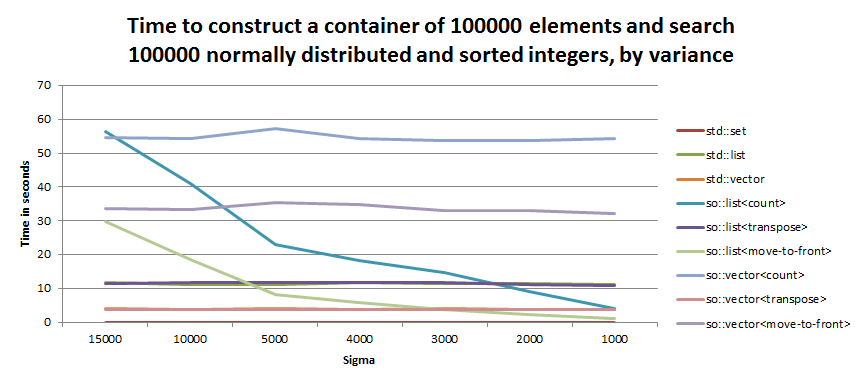
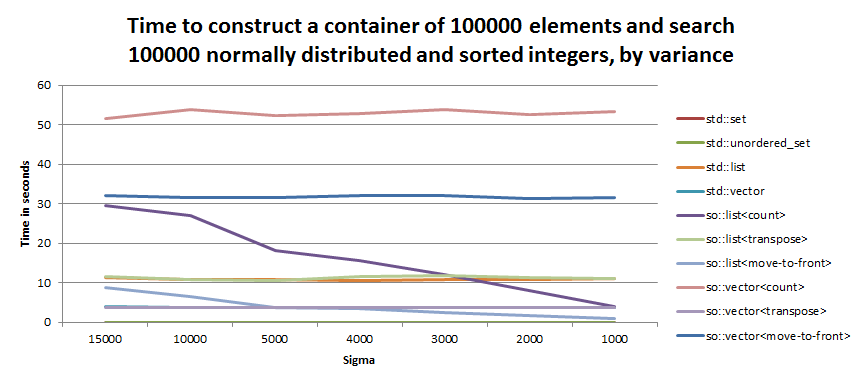
More better documentation in the performance section. Also added std::unordered_set to the arena.

diff --git a/documentation/mainpage.h b/documentation/mainpage.h
@@ -77,40 +77,48 @@ We already know that when searching for elements in a container in a purely rand
 There would indeed be no useful information from past searches to use and optimize future searches.
 Self-organizing lists must only be used when searches are not uniformly random.
 
+I'll state upfront that if one considers only the time taken to search, \c std::unordered_set and \c std::set are virtually unbeatable under the conditions I've set for these tests.
+The only way I could get \c self_organizing::lists to come ahead of was when I included the time taken to construct the container in the overall performance evaluation.
+So that's something important to consider.
+
+Performance tests were run with two random distributions, normal and geometric.
+After the numbers were generated, an extra step was performed to substitute the generated numbers with values from a randomly generated substitution dictionary.
+This avoided having the numbers generated being too predictable or concentrated.
+For instance, for a geometric distribution, even though the distribution is random, the most common number generated will \em always be 0, the second will \em always be 1, etc.
+Thus, this extra step added randomness to the numbers themselves, rather than just their distribution.
+
 \subsection normal Search of normally distributed elements
 
-For this performance test, I used the following nine containers:
- - One \c std::list, one \c std::vector and one \c std::set.
+For this performance test, I used the following containers:
+ - One \c std::set, one \c std::unordered_set, one \c std::list and one \c std::vector.
  - Three self_organizing::list, each with a different \ref self_organizing::find_policy "find_policy".
  - Three self_organizing::vector, each with a different \ref self_organizing::find_policy "find_policy".
 
-I randomly shuffled integers from 0 to 999999 and copied them to the containers.
-I then generated 100000 random integers multiple times from the same range using a <A href=http://en.wikipedia.org/wiki/Normal_distribution>normal distribution</A>.
+Each container was constructed with value from the range [0, 999999[.
+I then generate 100000 random integers from the same range using a <A href=http://en.wikipedia.org/wiki/Normal_distribution>normal distribution</A>.
 Each time, the mean was kept at 50000 and the variance was changed.
-I measure both the time taken to contruct the container and the time taken to perform the searches.
-This avoids giving an unfair advantage to \c std::set which sorts data at construction time, a costly operation, in order to afford fast searches.
-Here are the results.
+Then, the extra susbstitution step described above was applied.
 
 \image html performance-normal.png
 
-First obvious conclusion: \c std::set crushes the competition.
-It barely registers.
-\c std::set's \a log(N) search performance shines.
-Sorting the data even appears to have been done for free when compared to the other containers' performance.
+First obvious conclusion: \c std::set and \c std::unordered_set crush the competition.
+They barely register on the graph.
+\c std::set's <em>O(log(N))</em> search performance shines.
+\c std::unordered_set's amortized constant performance fares even better, though it doesn't show on the graph.
+Sorting or hashing the data even appears to have been done for free when compared to the other containers' performance.
 
 On the other side of the spectrum, \c self_organizing::vector<find_policy::count> and \c self_organizing::vector<find_policy::move_to_front> can't keep up at all.
-The maintenance required is utterly misadapted to a \c vector since both policies constanly rearrange elements using insertion, an operation that \c vector is not made for.
+The maintenance required is utterly misadapted to a \c vector since both policies constanly rearrange elements using insertion, an operation that \c std::vector is not made for.
 
 What's left in between?
-In third place we have \c std::vector.
+In fourth place we have \c std::vector.
 The nature of this test favors packed and static data, so that's no surprise.
 But ahead of it by a nose is \c self_organizing::vector<find_policy::transpose>.
-The transposition strategy of swapping element incurs little overhead to a \c vector and afforded it the second place.
+The transposition strategy of swapping element incurs little overhead to \c std::vector and afforded it the second place.
 
 Where are our lists?
 \c std::list and \c self_organizing::list<find_policy::transpose> performed in lock-step, mimicking their \c vector cousins.
 Only, three times slower.
-I'm surprised the transposition strategy didn't help that much.
 Remains, \c self_organizing::list<find_policy::count> and \c self_organizing::list<find_policy::move_to_front>.
 Now those are interesting because they show a pattern of improving performance as the search variance is reduced.
 \c self_organizing::list<find_policy::move_to_front> even managed to come ahead of the \c vectors in the last test!
@@ -127,34 +135,52 @@ But let's try to give our self-organizing containers a fighting chance...
 
 This next test is a carbon copy of the previous test except that the elements to search are sorted after they are generated.
 The purpose is to imitate a system where it is expected that not only a small subset of elements will be searched for, but also that when an element is searched for it is highly likely to be immediately searched for again.
-This situation will not help the transposition strategy but will help the move-to-front strategy.
+This situation will not help the transposition strategy but should help the move-to-front strategy.
 Let's see.
 
 \image html performance-normal-sorted.png
 
 The picture is the same as before except for the performance of \c self_organizing::list<find_policy::move_to_front>.
 It has benefited tremendeously from the search pattern, equating or besting the performance of \c std::vector for the smaller variance values.
-It still doesn't hold a candle to \c std::set.
+But, it still doesn't hold a candle to either of \c std::set and \c std::unordered_set.
 Let's up the ante.
 
 \subsection geometric Search of geometrically distributed elements
 
-Using knowledge from the previous tests, I narrowed the contenders to the following three:
+Using knowledge from the previous tests, I narrowed the contenders to the following four:
  - One \c std::set
+ - One \c std::unordered_set
  - One \c self_organizing::list<find_policy::count>
  - One \c self_organizing::list<find_policy::move_to_front>
 
-I randomly shuffled integers from 0 to 999999 and copied them to the containers.
-I then generated 100000 random integers multiple times from the same range using a <A href=http://en.wikipedia.org/wiki/Geometric_distribution>geometric distribution</A> and varying \em p.
-I measure both the time taken to contruct the container and the time taken to perform the searches.
+Each container was constructed with value from the range [0, 999999[.
+I then generated 100000 random integers multiple times from the same range using a < href=http://en.wikipedia.org/wiki/Geometric_distribution>geometric distribution</a> and varying \em p.
+I measure both the time taken to contruct the container and the time taken to perform the searches twenty-five times to average out any outlying result.
 
 \image html performance-geometric-100000.png
 
 Self-organizing lists beat \c std::set! Victory!
 
-Alas, this victory tastes sour.
+Alas, it is a short-lived victory.
 These values of \em p are ridiculously small.
-At <EM>p = 0.04</EM> &mdash;the largest for which lists beat <TT>std::set</TT>&mdash; the variance is a measly <A href=http://www.wolframalpha.com/input/?i=GeometricDistribution[0.1]>90</A>.
+At <em>p = 0.2</em> &mdash;the largest for which \c self_organizing::lists beat <tt>std::set</tt>&mdash; the variance is a measly <a href=http://www.wolframalpha.com/input/?i=GeometricDistribution[0.2]>20</a>.
+
+Can we do better by making the sets do worse?
+Consider that these tests measure both construction time and search time.
+For \c std::set that means <em>O(Nlog(N))</em> construction performance and <em>O(log(N))</em> search performance.
+Thus, if the size of the data set goes up by an order of magnitude, the overall performance of \c std::set should degrade proportionally.
+As for \c std::unordered_set, it's construction performance is <em>O(N)</em> but it incurs hashing overhead.
+So, our \c self_organizing::lists are at an advantage when considering construction performance but let's hope their search strategy can keep up.
+
+\image html performance-geometric-1000000.png
+
+With the size of the data set increased to one million, we managed to push \em p further down to 0.01, a variance of 9900.
+Or 1% of our data set.
+Meh.
+
+So.
+There you have it.
+And I'm calling it a day.
 
 \section sample Sample code
 

diff --git a/tests/performance.cpp b/tests/performance.cpp
@@ -11,6 +11,7 @@
 #include <iostream>
 #include <random>
 #include <set>
+#include <unordered_set>
 
 using namespace std;
 
@@ -19,13 +20,35 @@ namespace so = self_organizing;
 template<typename D>
 void test(const vector<int>& data, D dis, const bool sorted = false)
 {
+	const size_t size = data.size();
+
 	random_device rd;
 	mt19937 gen(rd());
 
 	// Generate 100000 numbers to search, for the given distribution.
+	// If any outliers are generated, discard and re-generate.
 	vector<int> searches;
-	generate_n(back_inserter(searches), 100000, [&dis, &gen]{ return dis(gen); });
+	generate_n(back_inserter(searches), 100000, [&dis, &size, &gen]()->int{ int r; do{ r = dis(gen); }while(r < 0 || r >= size); return r;});
 
+	// Substitute the generated numbers with values from a randomly generated set.
+	// This avoids having the numbers generated above being too predictable or concentrated.
+	// e.g. For a geometric distribution, even though the distribution is random, 
+	// the most common number generated will *always* be 0, the second will *always* be 1, etc.
+	// Thus, this extra step adds randomness to the numbers themselves, rather than just their distribution.
+	vector<int> substition(searches.size());
+	for(size_t i = 0; i != substition.size(); ++i)
+	{
+		substition[i] = i;
+	}
+
+	shuffle(substition.begin(), substition.end(), gen);
+
+	for(size_t i = 0; i != searches.size(); ++i)
+	{
+		searches[i] = substition[searches[i]];
+	}
+
+	// Sort them, if asked to.
 	if(sorted) sort(searches.begin(), searches.end());
 
 	chrono::high_resolution_clock hrc;
@@ -59,18 +82,49 @@ void test(const vector<int>& data, D dis, const bool sorted = false)
 		return chrono::duration_cast<chrono::milliseconds>(hrc.now() - start).count();
 	});
 	
-	auto start = hrc.now();
-
-	set<int> std_s(data.begin(), data.end());
-
-	for(size_t i = 0; i != searches.size(); ++i)
+	auto std_us_time = async(launch::deferred, [&]()->long long
 	{
-		std_s.find(searches[i]);
+		long long std_us_time = 0;
+
+		for(int n = 0; n != 25; ++n)
+		{
+			auto start = hrc.now();
+
+			unordered_set<int> std_us(data.begin(), data.end());
+
+			for(size_t i = 0; i != searches.size(); ++i)
+			{
+				std_us.find(searches[i]);
+			}
+	
+			std_us_time += chrono::duration_cast<chrono::milliseconds>(hrc.now() - start).count();
+		}
+
+		return std_us_time / 25;
+	});
+
+	long long std_s_time = 0;
+
+	for(int n = 0; n != 25; ++n)
+	{
+		auto start = hrc.now();
+
+		set<int> std_s(data.begin(), data.end());
+
+		for(size_t i = 0; i != searches.size(); ++i)
+		{
+			std_s.find(searches[i]);
+		}
+
+		std_s_time += chrono::duration_cast<chrono::milliseconds>(hrc.now() - start).count();
 	}
 	
-	cout << chrono::duration_cast<chrono::milliseconds>(hrc.now() - start).count() / 1000. << ",";
-//	cout << std_l_time.get() / 1000. << ",";
-//	cout << std_v_time.get() / 1000. << ",";
+	std_s_time /= 25;
+
+	cout << std_s_time / 1000. << ",";
+	cout << std_us_time.get() / 1000. << ",";
+	cout << std_l_time.get() / 1000. << ",";
+	cout << std_v_time.get() / 1000. << ",";
 
 	// Perform the search on the self-organizing containers.
 	auto so_l_transpose_time = async(launch::deferred, [&]()->long long
@@ -89,16 +143,23 @@ void test(const vector<int>& data, D dis, const bool sorted = false)
 
 	auto so_l_mtf_time = async(launch::deferred, [&]()->long long
 	{
-		auto start = hrc.now();
+		long long so_l_mtf_time = 0;
 
-		so::list<int, so::find_policy::move_to_front> so_l_mtf(data.begin(), data.end());
-	
-		for(size_t i = 0; i != searches.size(); ++i)
+//		for(int n = 0; n != 25; ++n)
 		{
-			so_l_mtf.find(searches[i]);
+			auto start = hrc.now();
+		
+			so::list<int, so::find_policy::move_to_front> so_l_mtf(data.begin(), data.end());
+	
+			for(size_t i = 0; i != searches.size(); ++i)
+			{
+				so_l_mtf.find(searches[i]);
+			}
+
+			so_l_mtf_time += chrono::duration_cast<chrono::milliseconds>(hrc.now() - start).count();
 		}
 
-		return chrono::duration_cast<chrono::milliseconds>(hrc.now() - start).count();
+		return so_l_mtf_time;// / 25;
 	});
 
 	auto so_v_count_time = async(launch::deferred, [&]()->long long
@@ -143,21 +204,31 @@ void test(const vector<int>& data, D dis, const bool sorted = false)
 		return chrono::duration_cast<chrono::milliseconds>(hrc.now() - start).count();
 	});
 
-	start = hrc.now();
+	long long so_l_c_time = 0;
 
-	so::list<int, so::find_policy::count> so_l_count(data.begin(), data.end());
-
-	for(size_t i = 0; i != searches.size(); ++i)
+//	for(int n = 0; n != 25; ++n)
 	{
-		so_l_count.find(searches[i]);
+		auto start = hrc.now();
+
+		so::list<int, so::find_policy::count> so_l_count(data.begin(), data.end());
+
+		for(size_t i = 0; i != searches.size(); ++i)
+		{
+			so_l_count.find(searches[i]);
+		}
+
+		so_l_c_time += chrono::duration_cast<chrono::milliseconds>(hrc.now() - start).count();
 	}
+
+	so_l_c_time;// /= 25;
+
 	
-	cout << chrono::duration_cast<chrono::milliseconds>(hrc.now() - start).count() / 1000. << ",";
-//	cout << so_l_transpose_time.get() / 1000. << ",";
+	cout << so_l_c_time / 1000. << ",";
+	cout << so_l_transpose_time.get() / 1000. << ",";
 	cout << so_l_mtf_time.get() / 1000. << ",";
-//	cout << so_v_count_time.get() / 1000. << ",";
-//	cout << so_v_transpose_time.get() / 1000. << ",";
-//	cout << so_v_mtf_time.get() / 1000.;
+	cout << so_v_count_time.get() / 1000. << ",";
+	cout << so_v_transpose_time.get() / 1000. << ",";
+	cout << so_v_mtf_time.get() / 1000.;
 	cout << endl;
 }
 
@@ -171,48 +242,45 @@ int main()
 		data[i] = i;
 	}
 
-	srand((unsigned int)time(0));
-	random_shuffle(data.begin(), data.end());
 
-/*
 	{
 		cout << "sigma,";
-		cout << "std::set,std::list,std::vector,";
+		cout << "std::set,std::unordered_set,std::list,std::vector,";
 		cout << "so::list<count>,so::list<transpose>,so::list<move-to-front>,";
 		cout << "so::vector<count>,so::vector<transpose>,so::vector<move-to-front>" << endl;
 
 		for(double sigma = 15000.; sigma > 4999.; sigma -= 5000)
 		{
 			cout << sigma << ",";
-			test(data, normal_distribution<>(data.size() / 2, sigma), false);
+			test(data, normal_distribution<>(data.size() / 2, sigma), true);
 		}
 
 		for(double sigma = 4000.; sigma > 999.; sigma -= 1000)
 		{
 			cout << sigma << ",";
-			test(data, normal_distribution<>(data.size() / 2, sigma), false);
+			test(data, normal_distribution<>(data.size() / 2, sigma), true);
 		}
 	}
-*/
 
 
+/*
 	{
 		cout << "p,";
-		cout << "std::set,so::list<count>,so::list<move-to-front>" << endl;
-/*
-		for(double p = 1.; p > .1 + DBL_EPSILON; p -= .1)
+		cout << "std::set,std::unordered_set,so::list<count>,so::list<move-to-front>" << endl;
+
+		for(double p = .9; p > .1 + DBL_EPSILON; p -= .1)
 		{
 			cout << p << ",";
 			test(data, geometric_distribution<>(p));
 		}
-*/
-		for(double p = .01; p > .001 - DBL_EPSILON; p -= .01)
+
+		for(double p = .1; p > .01 - DBL_EPSILON; p -= .01)
 		{
 			cout << p << ",";
 			test(data, geometric_distribution<>(p));
 		}
 	}
-
+*/
 
 	return 0;
 }
